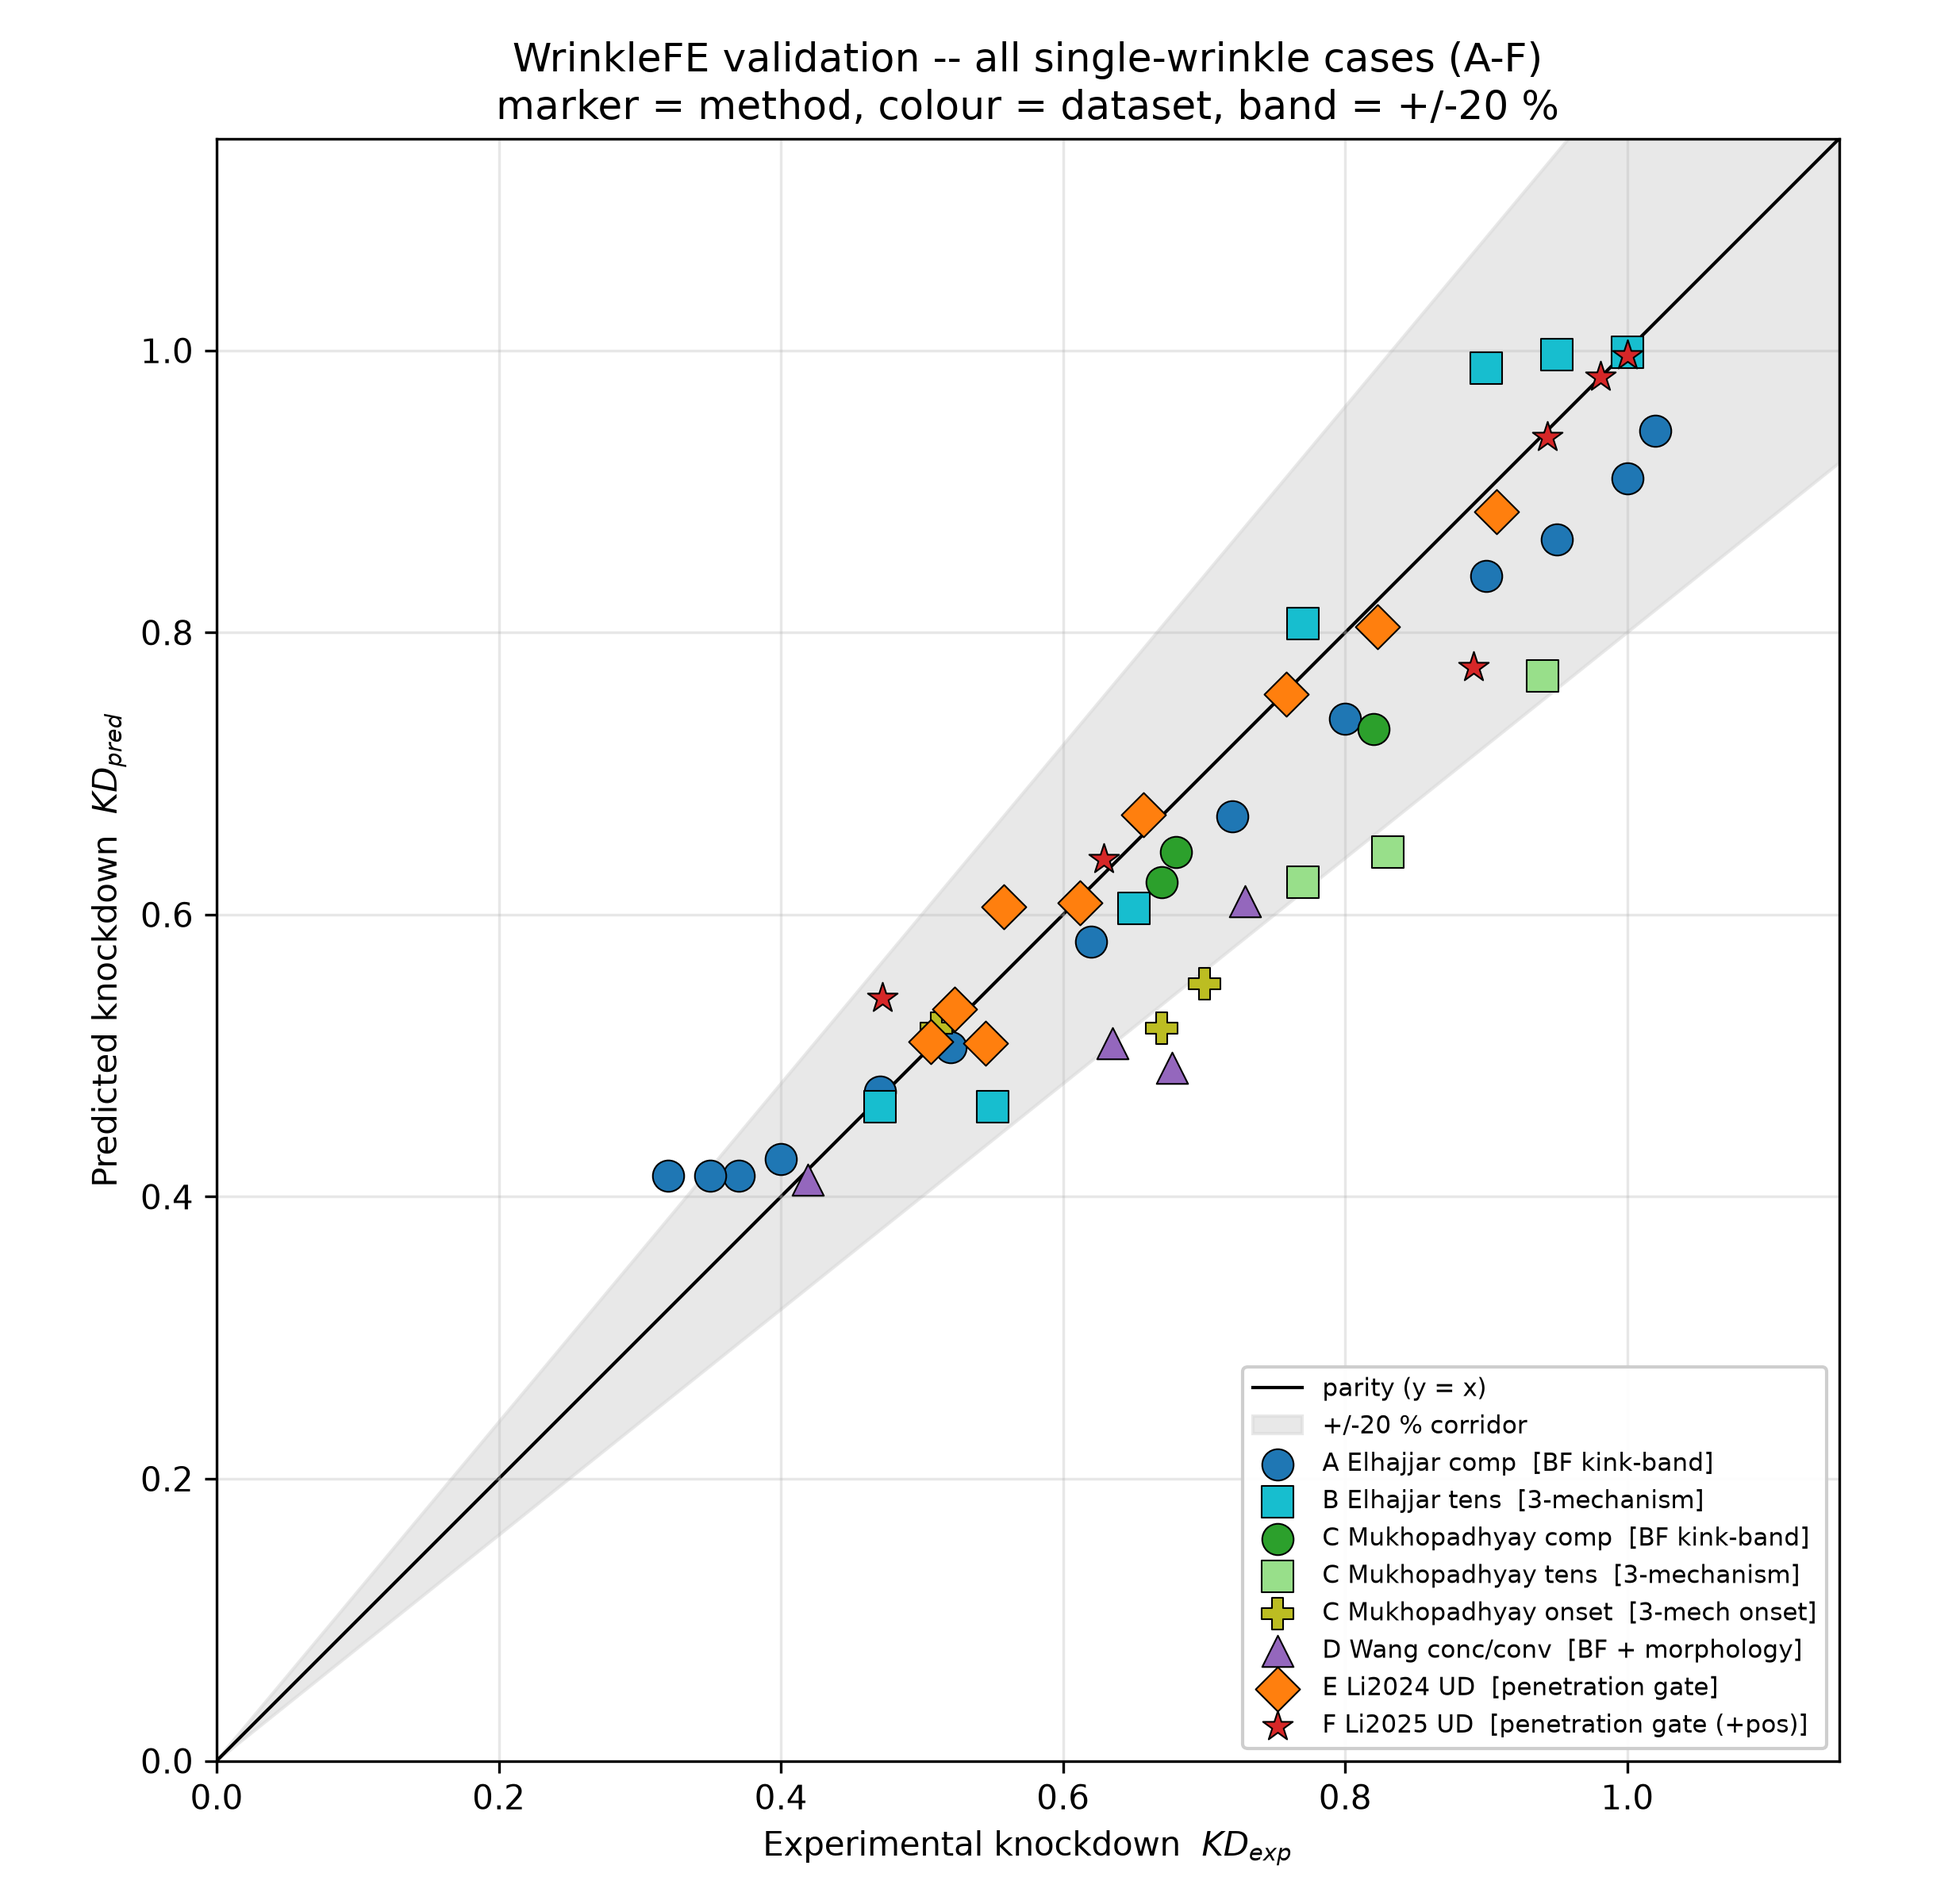
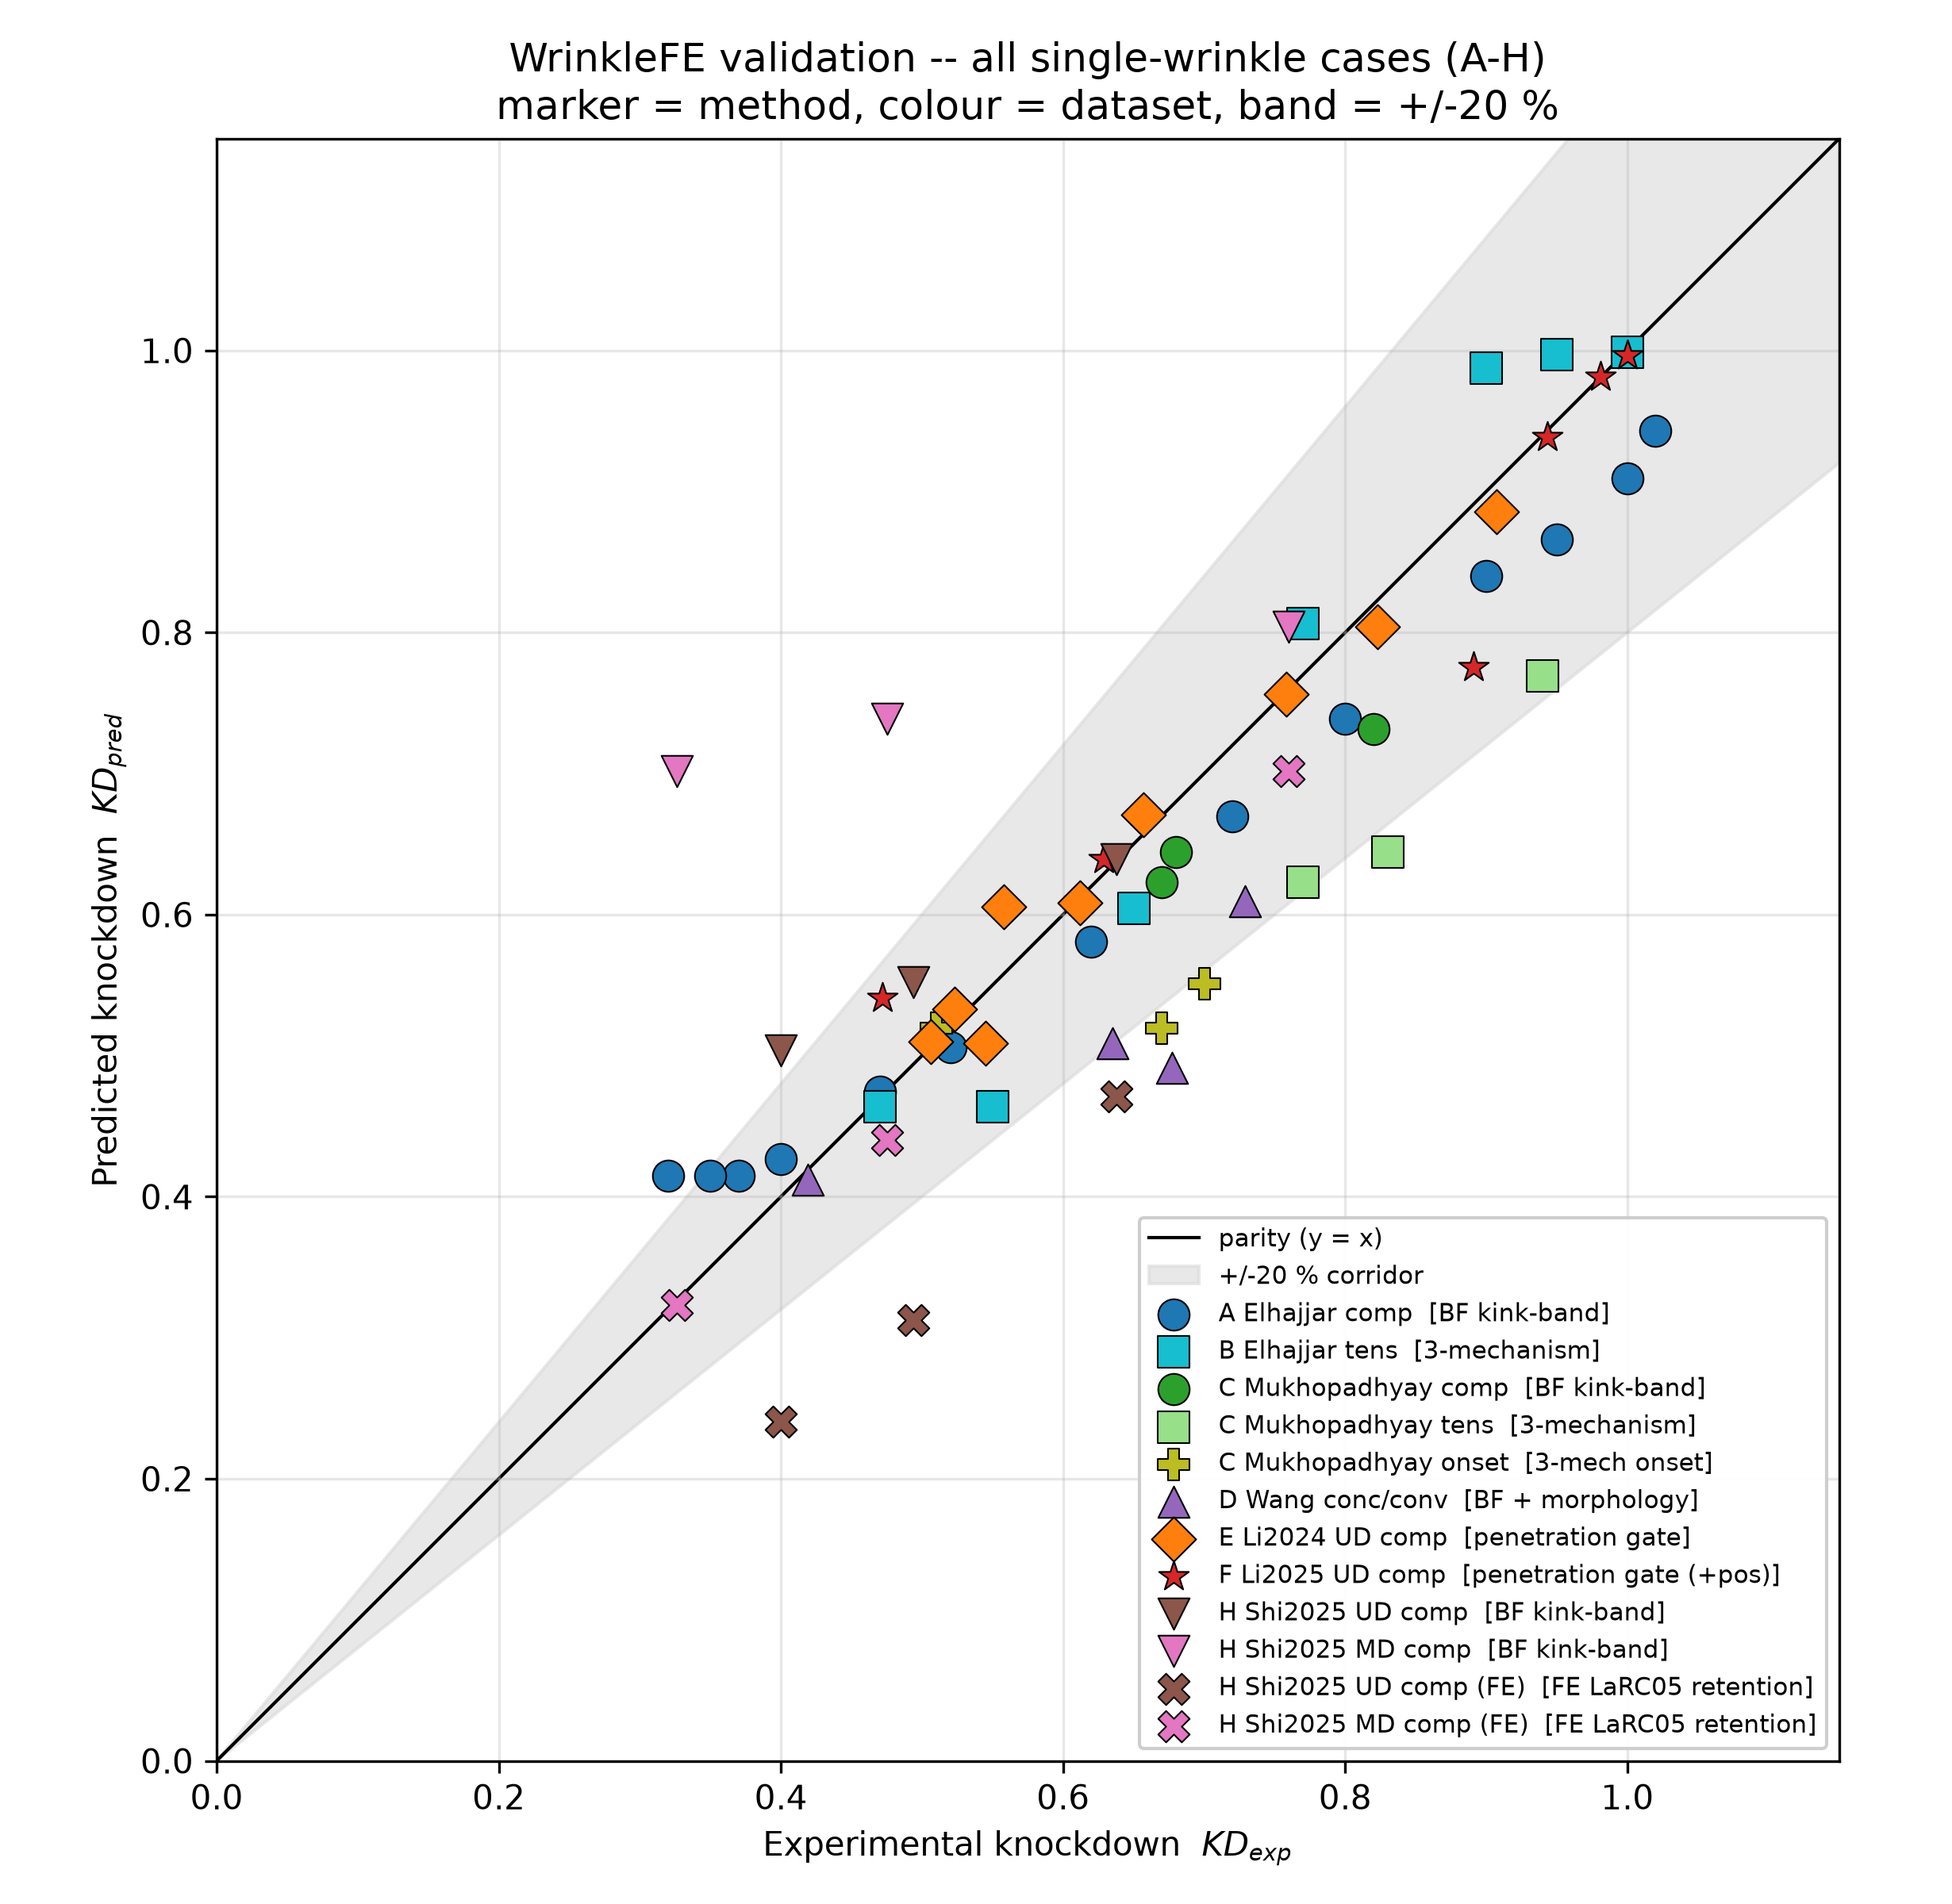
validation: add Dataset H to the parity chart; sync the band counts
plot_all_validation.py now draws Dataset H (Shi 2025) alongside A-F,
recipe-exact from the ledger, and plots it twice: the angle-based
analytical prediction (no penetration-gate preset exists for this
carbon material) and the first-ply FE LaRC05 retention, with every
legend entry naming its loading (all of H is compression). The chart
shows the Dataset H story at a glance: the analytical path floats far
above parity on the multidirectional half (+56/+115 %) while the FE
retention hugs the diagonal from below (-8 to -1 %), and the UD FE
points sit safely below the corridor.

The band counts quoted in README, interpreting_results and
VALIDATION.md move accordingly: 43-of-48 becomes 46 of 54 analytical
cases (49 of 60 points with the FE series), and the out-of-band set is
re-described - seven conservative, four non-conservative (dataset A's
+30 % and Dataset H's severe analytical cases), with the pointer that
multidirectional strength reads belong to the FE retention table.
interpreting_results gains the two H analytical rows and drops "the
only measured-strength check" (H is the second).

Claude-Session: https://claude.ai/code/session_01WzcqsMZfyvv6ue9s3c3JAY

diff --git a/validation/plot_all_validation.py b/validation/plot_all_validation.py
@@ -2,8 +2,9 @@
 """Single combined validation chart: predicted vs experimental knockdown.
 
 Plots every *single-wrinkle* experimental case in the WrinkleFE validation
-database (Datasets A-F of VALIDATION_DATA) on one parity axes, with the
-+/-20 % pass corridor around the y = x diagonal.
+database (Datasets A-F of VALIDATION_DATA, plus the ledger's Dataset H)
+on one parity axes, with the +/-20 % pass corridor around the y = x
+diagonal.
 
 The point of putting them on one chart is to show, at a glance, that we do
 **not** use one method everywhere: each dataset is predicted with the model
@@ -15,6 +16,12 @@ encodes the dataset:
     compression, the three-mechanism min() for tension, with the
     morphology factor for Wang's concave/convex cases).  These are
     scale-invariant in D/T.
+  * Dataset H (Shi 2025, UD + multidirectional) -> shown TWICE: the
+    angle-based analytical prediction (hollow-side markers, like A-D;
+    no penetration-gate preset is calibrated for this carbon material)
+    AND the first-ply FE LaRC05 retention (X markers), which is the
+    measured-checked path for the multidirectional half. The ledger
+    recipe drives both, via scripts/validate.py case_config.
   * Unidirectional laminates (E, F)          -> the two-parameter
     penetration gate ``KD = 1 - (1 - KD_angle(theta)) * S(D/T) * P(z)``,
     which the angle-only models cannot reproduce (the Li grids vary
@@ -200,6 +207,62 @@ def dataset_F():
             for th, dt, z, kd in grid]
 
 
+def _ledger_dataset(name_prefix: str):
+    import json
+
+    ledger = json.loads(
+        (REPO / "tests" / "test_validation" / "ledger.json").read_text()
+    )
+    return next(d for d in ledger["datasets"]
+                if d["name"].startswith(name_prefix))
+
+
+def _dataset_H_analytical(half: str):
+    """Shi (2025) Dataset H, analytical path, recipe-exact via the ledger."""
+    sys.path.insert(0, str(REPO / "scripts"))
+    from validate import case_config
+
+    ds = _ledger_dataset(f"shi_2025_{half}")
+    out = []
+    for case in ds["cases"]:
+        res = WrinkleAnalysis(case_config(ds, case)).run(analytical_only=True)
+        out.append((float(case["measured_kd"]),
+                    float(res.analytical_knockdown)))
+    return out
+
+
+def dataset_H_ud():
+    """Shi (2025) UD CFRP -- plain BF (no gate preset for this carbon)."""
+    return _dataset_H_analytical("ud")
+
+
+def dataset_H_md():
+    """Shi (2025) multidirectional CFRP -- angle-based analytical."""
+    return _dataset_H_analytical("md")
+
+
+_H_FE_CACHE: dict[str, list] = {}
+
+
+def _dataset_H_fe(prefix: str):
+    """Shi (2025) first-ply FE LaRC05 retention (one 6-solve pass, cached)."""
+    if not _H_FE_CACHE:
+        sys.path.insert(0, str(REPO / "validation"))
+        from strength_error_summary import fe_larc05_errors_shi
+
+        for case, (kd, meas, _e) in fe_larc05_errors_shi().items():
+            _H_FE_CACHE.setdefault(case[:4], []).append((meas, kd))
+    return _H_FE_CACHE[prefix]
+
+
+def dataset_H_ud_fe():
+    return _dataset_H_fe("H-UD")
+
+
+def dataset_H_md_fe():
+    return _dataset_H_fe("H-MD")
+
+
 # Dataset -> (cases, colour, marker, method label, method family).
 DATASETS = {
     "A Elhajjar comp": (dataset_A, "#1f77b4", "o", "BF kink-band"),
@@ -208,8 +271,14 @@ DATASETS = {
     "C Mukhopadhyay tens": (dataset_C_tens, "#98df8a", "s", "3-mechanism"),
     "C Mukhopadhyay onset": (dataset_C_onset, "#bcbd22", "P", "3-mech onset"),
     "D Wang conc/conv": (dataset_D, "#9467bd", "^", "BF + morphology"),
-    "E Li2024 UD": (dataset_E, "#ff7f0e", "D", "penetration gate"),
-    "F Li2025 UD": (dataset_F, "#d62728", "*", "penetration gate (+pos)"),
+    "E Li2024 UD comp": (dataset_E, "#ff7f0e", "D", "penetration gate"),
+    "F Li2025 UD comp": (dataset_F, "#d62728", "*", "penetration gate (+pos)"),
+    "H Shi2025 UD comp": (dataset_H_ud, "#8c564b", "v", "BF kink-band"),
+    "H Shi2025 MD comp": (dataset_H_md, "#e377c2", "v", "BF kink-band"),
+    "H Shi2025 UD comp (FE)": (dataset_H_ud_fe, "#8c564b", "X",
+                          "FE LaRC05 retention"),
+    "H Shi2025 MD comp (FE)": (dataset_H_md_fe, "#e377c2", "X",
+                          "FE LaRC05 retention"),
 }
 
 
@@ -247,7 +316,7 @@ def main():
     ax.set_aspect("equal")
     ax.set_xlabel("Experimental knockdown  $KD_{exp}$")
     ax.set_ylabel("Predicted knockdown  $KD_{pred}$")
-    ax.set_title("WrinkleFE validation -- all single-wrinkle cases (A-F)\n"
+    ax.set_title("WrinkleFE validation -- all single-wrinkle cases (A-H)\n"
                  "marker = method, colour = dataset, band = +/-20 %")
     ax.grid(alpha=0.3)
     ax.legend(fontsize=7.5, loc="lower right", framealpha=0.95)

diff --git a/docs/interpreting_results.md b/docs/interpreting_results.md
@@ -220,7 +220,8 @@ keeps *more* strength than it did: the unsafe direction. Every figure here
 is regenerated by `python validation/strength_error_summary.py`.
 
 **Analytical paths** — each dataset predicted by the model that applies to
-it; 43 of 48 cases fall within ±20%:
+it; 46 of the 54 analytical cases fall within ±20% (the parity figure,
+which also plots Dataset H's FE series, shows 49 of 60 overall):
 
 | Dataset | Model | n | Mean abs. error | Range | Non-conservative |
 |---|---|---|---|---|---|
@@ -232,14 +233,21 @@ it; 43 of 48 cases fall within ±20%:
 | D Wang (2021), concave/convex | Budiansky–Fleck + morphology | 4 | 16.3% | −27.4% … −1.6% | 0 / 4 |
 | E Li (2024), UD | penetration gate | 9 | 2.8% | −6.6% … +8.5% | 4 / 9 |
 | F Li (2025), UD | penetration gate + position | 6 | 5.0% | −12.9% … +14.6% | 2 / 6 |
+| H Shi (2025), UD CFRP | Budiansky–Fleck (no gate preset) | 3 | 12.6% | +0.2% … **+25.9%** | 3 / 3 |
+| H Shi (2025), multidirectional CFRP | Budiansky–Fleck | 3 | 58.8% | +5.8% … **+115.2%** | 3 / 3 |
 
-Of the five cases outside ±20%, four are conservative. The one that is not
-(+29.6%) is the most severe wrinkle in dataset A (A = 0.73 mm, measured
-knockdown 0.32, predicted 0.42).
+Of the eight analytical cases outside ±20%, four are conservative. The
+four that are not: the most severe wrinkle in dataset A (+29.6%,
+A = 0.73 mm, measured knockdown 0.32, predicted 0.42), and Dataset H's
+severe cases — +25.9% on the UD half, and +55.6% / +115.2% on the
+multidirectional half, where the measured severities exceed the UD
+half's (buckling participation) and an angle-only model cannot follow.
+For multidirectional strength, read the FE retention table below
+(−8% to −1% on those same cases) rather than the analytical column.
 
-**FE strength (LaRC05)** — Li (2025) UD glass/epoxy, the only
-measured-strength check the FE path has. Wrinkled over pristine strength
-at first failure:
+**FE strength (LaRC05)** — Li (2025) UD glass/epoxy, the FE path's
+first measured-strength check (Dataset H below is the second). Wrinkled
+over pristine strength at first failure:
 
 | Case | Wrinkle | FE | Measured | Error |
 |---|---|---|---|---|

diff --git a/README.md b/README.md
@@ -1183,12 +1183,19 @@ possible — their raw data are not included.
 For a consolidated predicted-vs-experimental view, the script
 [`validation/plot_all_validation.py`](validation/plot_all_validation.py)
 regenerates `validation/fig_all_validation_parity.png`: a single parity
-plot of every single-wrinkle case (Datasets A–F) against a ±20% band,
-with each dataset predicted by the model that physically applies to it
-(Budiansky–Fleck / three-mechanism for the multidirectional cases A–D,
-the penetration gate for the UD cases E/F). 43 of the 48 cases fall
-inside the band. Of the five outside it, four are conservative; the one
-that is not (+30%) is the most severe compression wrinkle in dataset A.
+plot of every single-wrinkle case (Datasets A–F plus Dataset H) against
+a ±20% band, with each dataset predicted by the model that physically
+applies to it (Budiansky–Fleck / three-mechanism for the
+multidirectional cases A–D, the penetration gate for the UD cases E/F;
+Dataset H, which has no gate preset, is plotted twice — analytical and
+first-ply FE LaRC05 retention). 49 of the 60 points fall inside the
+band. Of the eleven outside it, seven are conservative (four legacy
+plus Dataset H's strongly-conservative UD FE points); the four that are
+not are the most severe compression wrinkle in dataset A (+30%) and the
+analytical predictions for Dataset H's severe cases (+26% UD; +56% and
++115% on the multidirectional half, where the FE retention path is
+within −8% to −1% — the reason the docs steer multidirectional strength
+reads to the FE).
 
 > **FE strength is indicative, not an allowable.** The analytical
 > knockdown (the penetration gate for UD) is the validated strength path.

diff --git a/docs/internal/VALIDATION.md b/docs/internal/VALIDATION.md
@@ -213,14 +213,19 @@ of `(KD_exp, KD_pred)` pairs rather than an absolute-strength axis.
 ### Consolidated parity chart
 
 `validation/plot_all_validation.py` renders every single-wrinkle case
-(Datasets A–F) on one predicted-vs-experimental parity plot with a ±20 %
-corridor, writing `validation/fig_all_validation_parity.png`. Each
-dataset is predicted by the model that physically applies to it:
-multidirectional A–D via the analytical Budiansky–Fleck / three-mechanism
-models run through `WrinkleAnalysis`, UD E/F via the penetration gate.
-This is the single cross-dataset predicted-vs-experimental view. Running
-the script prints the per-dataset scorecard; the UD entries are
-**E: 2.8 % MAE, 9/9** and **F: 5.0 % MAE, 6/6** (within ±20 %).
+(Datasets A–F plus Dataset H) on one predicted-vs-experimental parity
+plot with a ±20 % corridor, writing
+`validation/fig_all_validation_parity.png`. Each dataset is predicted
+by the model that physically applies to it: multidirectional A–D via
+the analytical Budiansky–Fleck / three-mechanism models run through
+`WrinkleAnalysis`, UD E/F via the penetration gate; Dataset H (no gate
+preset for its carbon material) is plotted twice, analytical AND
+first-ply FE LaRC05 retention, both recipe-exact from the ledger. This
+is the single cross-dataset predicted-vs-experimental view. Running
+the script prints the per-dataset scorecard; headline entries are
+**E: 2.8 % MAE, 9/9**, **F: 5.0 % MAE, 6/6** and **H-MD (FE): 5.3 %
+MAE, 3/3** (within ±20 %); overall **49 of 60** points sit inside the
+corridor.
 
 ## Interlaminar (CZM) validation evidence — Phase 7
 
